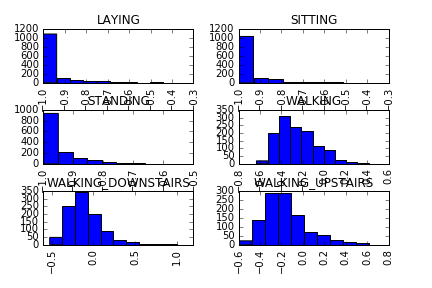
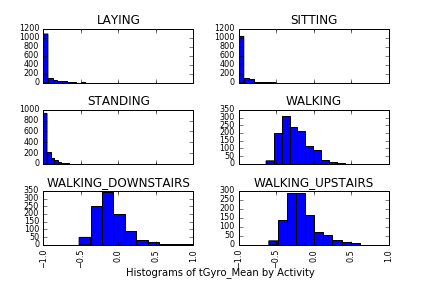
clean up plots

diff --git a/read_clean_data.py b/read_clean_data.py
@@ -127,6 +127,12 @@ def readRawTestData(dfcol, dfact, printOut=False):
         print("dftest_y shape", dftest_y.shape, "head\n", dftest_y[:5])
     return dftest, dftest_y
 
+def readRawData(dfcol, printOut=False):
+    dfact = readActivityLabels()
+    dftrain, dftrain_y = readRawTrainData(dfcol, dfact, printOut)
+    dftest, dftest_y = readRawTestData(dfcol, dfact, printOut)
+    return dftrain, dftrain_y, dftest, dftest_y
+
 def check_duplicate_columns(dfcol, dups):
     '''check duplicate columns'''
     print("DUPS, len =", len(dups))
@@ -204,6 +210,7 @@ def plotImportances(impcol, plotdir, label):
     plt.clf()
     plt.plot(range(len(vals)), vals)
     plt.plot(range(len(valsum)), valsum)
+    plt.ylim(0.0, 1.0)
     plt.xlabel("Feature Number")
     plt.ylabel("Importance")
     plt.title("Random Forest Importances")
@@ -214,28 +221,23 @@ def plotImportances(impcol, plotdir, label):
     plt.clf()
     plt.plot(range(100), vals[:100])
     plt.plot(range(100), valsum[:100])
+    plt.ylim(0.0, 1.0)
     plt.xlabel("Feature Number")
     plt.ylabel("Importance")
     plt.title("Random Forest Importances")
     plt.legend(('relative importance', 'cumulative importance'), \
         loc='upper center')
-    plt.text(70, 0.4, "First Hundred\nImportances")
+    plt.text(70, 0.35, "First Hundred\nImportances")
     plt.savefig(plotdir + "impt100_" + label)
-
-def readRawData(dfcol, printOut=False):
-    dfact = readActivityLabels()
-    dftrain, dftrain_y = readRawTrainData(dfcol, dfact, printOut)
-    dftest, dftest_y = readRawTestData(dfcol, dfact, printOut)
-    return dftrain, dftrain_y, dftest, dftest_y
 
 def plotHistograms(dftrain, dftrain_y, plotdir):
     labels = ['tAcc_Mean', 'fAcc_Mean', 'tGyro_Mean', 'fBGyro_Mean']
     for label in labels:
         plt.clf()
-        dftrain[label].hist(by=dftrain_y['activity'])
-#        plt.title("Histogram of" + label + "by Activity")
+        dftrain[label].hist(by=dftrain_y['activity'], \
+            sharex=True, xlabelsize=8, ylabelsize=8)
+        plt.text(-2.5, -170, "Histograms of " + label + " by Activity")
         plt.savefig(plotdir + "hist_" + label)
-        # plot to file instead
 
 if __name__ == '__main__':
     dfcol, dups = readRawColumns(printOut=True)
@@ -311,6 +313,7 @@ if __name__ == '__main__':
     # plot importances
     plotImportances(impcol, plotdir, "vfit")
     
+    # model after training: dftrain w/ top 10 or 20 importances?
     # top 10 ~ 60-70% accuracy, top 20 ~ 80% accuracy, better cross table
     impcolnames = list(map(lambda e: e[1], impcol[:20]))
     dftrain = dftrain[impcolnames]
@@ -328,8 +331,8 @@ if __name__ == '__main__':
 # some thoughts: train, validate, test
 # validate excluded from train, used to select between different models
 # once a model is selected, use test to test
-# priors? check distribution of activities in train, test => 1/6 ?
+# priors? check distribution of activities in train, test => 1/6
+#     from confusion matrix?
 # get oob from fit, must set beforehand?
-# model after training is dftrain w/ top 10 or 20 importances?
 
 

diff --git a/clean_predict_kfold.py b/clean_predict_kfold.py
@@ -9,46 +9,59 @@ from sklearn.ensemble import RandomForestClassifier
 from sklearn.cross_validation import KFold
 
 from read_clean_data import readRawColumns, readRawData, \
-    removeDuplicateColumns, rfFitScore, getImportantColumns
+    removeDuplicateColumns, rfFitScore, getImportantColumns, \
+    getPlotDir, plotImportances
 
-print("random forest, kfold 4")
+kfolds = 4
+print("random forest, kfold", kfolds)
 
 dfcol, dups = readRawColumns()
 dftrain, dftrain_y, dftest, dftest_y = readRawData(dfcol)
 dftrain, dftest = removeDuplicateColumns(dfcol, dups, dftrain, dftest)
+
+# separate dftrain into train, validate
 
 clf = RandomForestClassifier(n_estimators=100)
 
 print("dftrain shape", dftrain.shape)
 
 def summit(impsum, imp):
+    '''add importances (basically set intersection)'''
     if len(impsum) == 0:
         impsum = imp
     else:
         impsum = [ x+y for x,y in zip(impsum, imp) ]
     return impsum
 
+def normImportances(imps, kinv):
+    '''normalize importances by kfold'''
+    return list(map(lambda e: e * kinv, imps))
+
 total_score = 0
 imps = []
-kf = KFold(dftrain.shape[0], n_folds=4)
+kf = KFold(dftrain.shape[0], n_folds=kfolds)
 for train, test in kf:
     subtrain, subtest, subtrain_y, subtest_y = dftrain.iloc[train], \
       dftrain.iloc[test], dftrain_y.iloc[train], dftrain_y.iloc[test]
     score, imp = rfFitScore(clf, subtrain, subtrain_y,subtest, subtest_y)
     total_score += score
-#    imps.append(imp)
     imps = summit(imps, imp)
 
-total_score *= 0.25
+kinv = 1.0 / kfolds
+total_score *= kinv
 print("total score", total_score)
-
-#imps = list(zip(*imps))
-#total_imp = [ sum(imp) for imp in imps ]
-#print("imps len", len(imps), imps[:5])  # unsorted
 
 #clf = RandomForestClassifier(n_estimators=10)
 #score, imp = rfFitScore(clf, dftrain, dftrain_y, dftest, dftest_y)
+imps = normImportances(imps, kinv)
 impcol = getImportantColumns(dftrain.columns, imps)
 print("importance column len", len(impcol))
 print("KFold: top ten important scores and features:\n", impcol[:10])
+
+plotdir = getPlotDir()
+plotImportances(impcol, plotdir, "kfold")
+
+# Q: how to combine folds into one model for prediction?
+#    usually clfit.predict( dftest )
+#    use sum of importances, top twenty?
 
